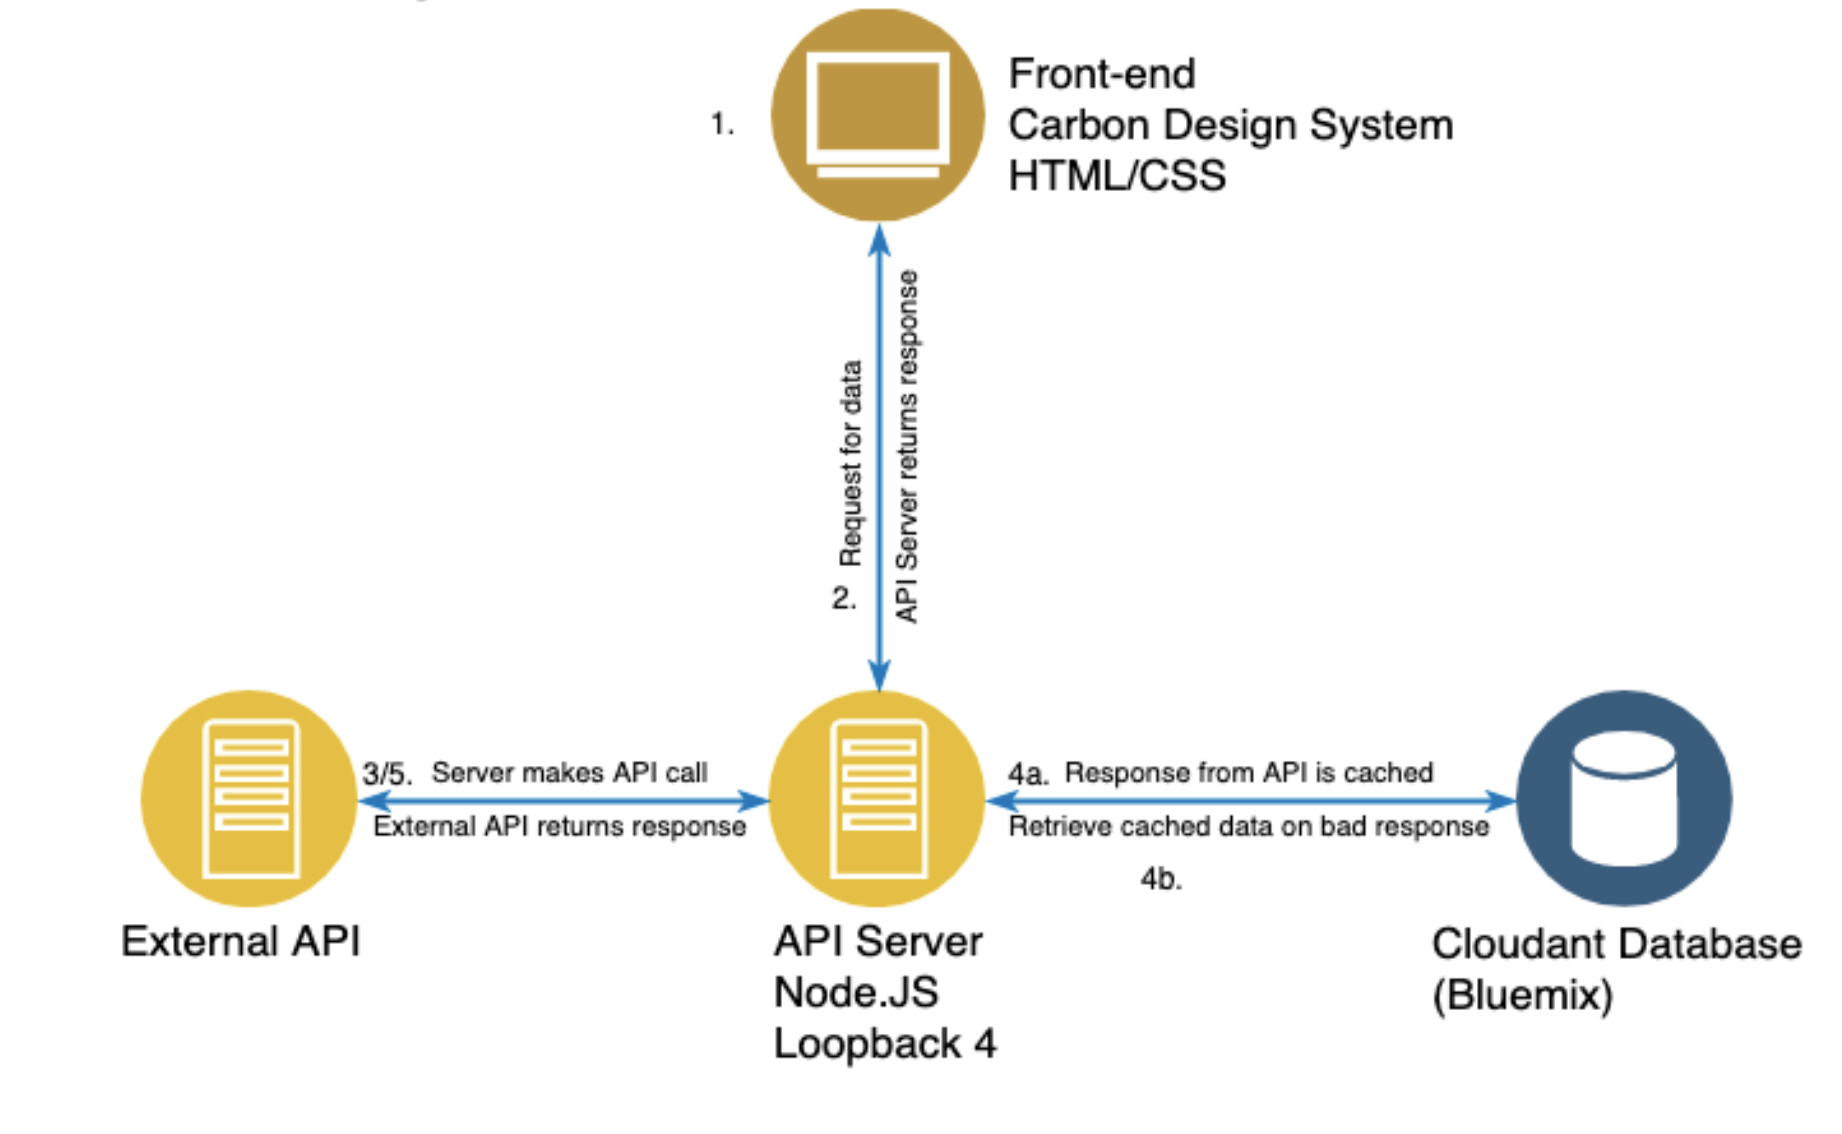
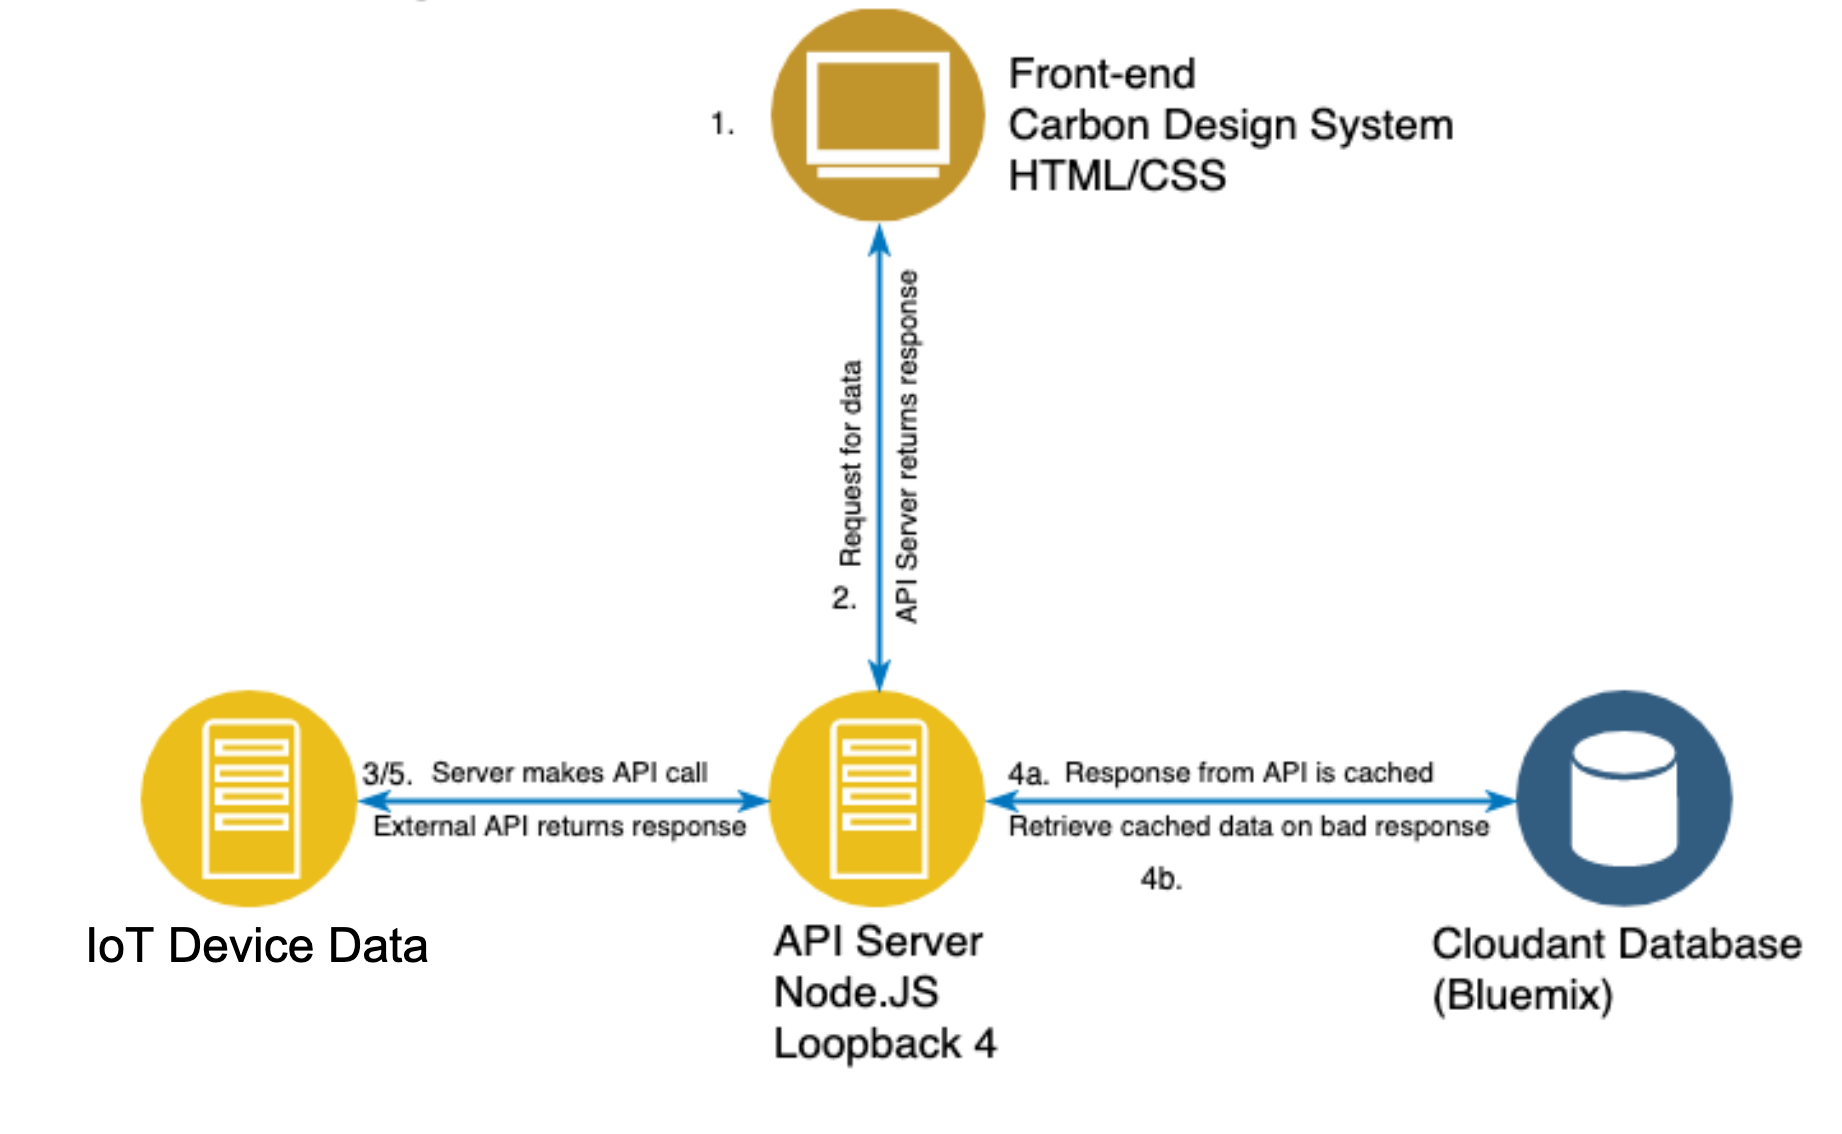
edits

Changed region(s): [[0.0309, 0.5864, 0.2476, 0.8642], [0.4023, 0.5864, 0.557, 0.8025]]

diff --git a/pattern-template.md b/pattern-template.md
@@ -1,10 +1,10 @@
 # Short title
 
-Using API caching server for quick Carbon-based front-ends
+Cache IoT device data for quick Carbon Design System front-ends
 
 # Long title
 
-Use an API caching server that allows to build quick efficient front-ends with Carbon Design System
+Use an API caching server for your IoT device data that allows to build quick, robust and efficient front-ends with Carbon Design System
 
 # Author
 
@@ -15,11 +15,11 @@ Use an API caching server that allows to build quick efficient front-ends with C
 
 ### Github repo
 
-* https://github.com/ash7594/kubernetes-speech-assistant
+* https://github.com/IBM/cache-IoT-data-for-Carbon-UI
 
 # Summary
 
-This code pattern is for developers looking to start building quick and efficient front-ends for their applications using an API caching server with IBM Carbon Design System. Learn how to build an API caching Node.js server using Loopback.io connected with IBM Cloudant database. 
+This code pattern is for developers looking to start building quick and efficient front-ends with a live view of their IoT device datausing an API caching server with IBM Carbon Design System. Learn how to build an API caching Node.js server using Loopback.io connected with IBM Cloudant database. 
 
 # Technologies
 
@@ -30,7 +30,7 @@ This code pattern is for developers looking to start building quick and efficien
 
 # Description
 
-This code pattern demonstrates an API caching server that can reside between your Carbon Design System based front-end and External API's, and can help with building quick and efficient interfaces using IBM Carbon UI. The pattern showcases a Node.js server built using Loopback.io that the front-end of an application would communicate with, and which interacts with an IBM Cloudant database that holds information about the external API's that your application must communicate with to load its UI components.
+This code pattern demonstrates an API caching server that can reside between your Carbon Design System based front-end and the API's for your IoT device data, and can help with building quick and efficient interfaces using IBM Carbon UI. The pattern showcases a Node.js server built using Loopback.io that the front-end of an application would communicate with, and which interacts with an IBM Cloudant database that holds information about your IoT device so that your application has cached data even when intermittent communication failures occur with the IoT device.
 
 When the reader has completed this code pattern, they will understand how to:
 
@@ -38,6 +38,7 @@ When the reader has completed this code pattern, they will understand how to:
 * Create API's using Loopback.io
 * Setup IBM Cloudant and interface with Loopback.io
 * Run IBM cloudant database locally
+* Setup a mock IOT device on Internet of Things Platform
 
 # Flow
 
@@ -47,7 +48,7 @@ When the reader has completed this code pattern, they will understand how to:
 
 1. User authenticates to API Server through Carbon Design System based front-end
 2. Front-end makes request data to be visualized from REST API
-3. API Server makes request to external API with stored credentials for that API
+3. API Server makes request to IoT device data API with stored credentials for that API
 4. If...
    1. there is a good response, the API Server receives new data and caches, then sends it to the front-end
    2. there is a bad response, the API server retrieves previously cached and returns THAT to the front-end
@@ -57,3 +58,4 @@ When the reader has completed this code pattern, they will understand how to:
 
 *	[IBM Carbon Design System](https://www.carbondesignsystem.com) is IBM’s open-source design system for products and experiences. With the IBM Design Language as its foundation, the system consists of working code, design tools and resources, human interface guidelines, and a vibrant community of contributors.
 *	[IBM Cloudant](https://www.ibm.com/cloud/cloudant) is a fully managed, scalable distributed database that gives you more time to focus on what matters – building your product.
+* [IBM Internet of Things Platform](https://cloud.ibm.com/catalog/services/internet-of-things-platform) - Securely connect, control, and manage devices. Quickly build IoT applications that analyze data from the physical world.
